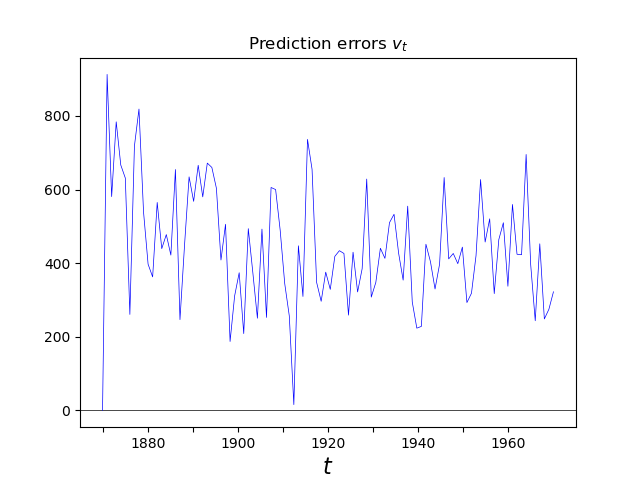
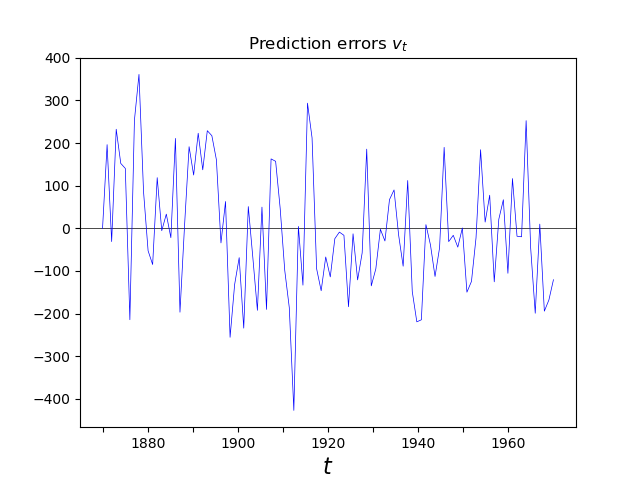
added mean adjustment

diff --git a/12.py b/12.py
@@ -30,6 +30,12 @@ class Nile:
             self.P1 = 10 ** 7
         elif abs(self.T < 1):
             self.P1 = self.vareta/(1 - self.T**2)
+
+            meanY = np.mean(self.y)
+
+            for i in range(self.n):
+                self.y[i] = self.y[i] - meanY
+                
         else:
             raise ValueError("The phi you've picked is not within the feasible range!")
 
